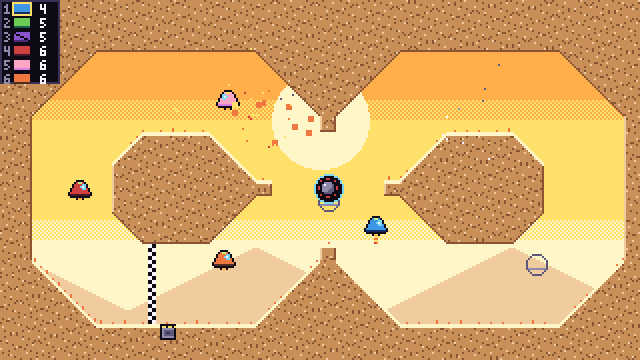
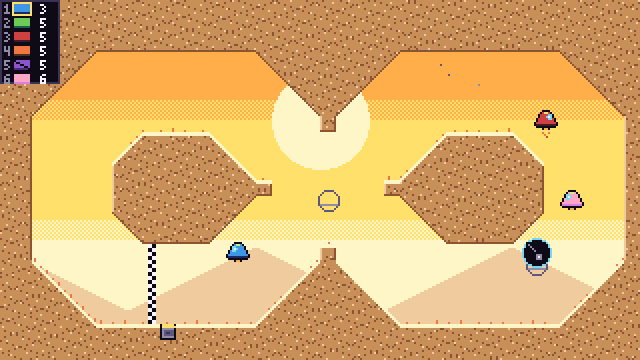
CHIME CIRCUIT: CPU pilots a little slower, shots redrawn
A CPU's top speed is now 370-440 (two thirds to four fifths of a
ship's), so a clean player pulls away as in the original, where the AI is
"straight up slower". The doc's timing table and the README shots follow.

diff --git a/src/games/chime/chime_race.c b/src/games/chime/chime_race.c
@@ -192,7 +192,7 @@ void chm_race_begin(ChmRace *r, const ChmCup *c, int track, uint64_t seed) {
         if (!s->human) {
             /* CPU pilots are slower than a good player: each has its own
              * speed limit for the race */
-            s->skill = (int16_t)rng_range(&r->rng, 400, 470);
+            s->skill = (int16_t)rng_range(&r->rng, 370, 440);
             chm_ai_mood(r, i);
         }
     }

diff --git a/docs/games/19-chime-circuit.md b/docs/games/19-chime-circuit.md
@@ -54,14 +54,14 @@ against the CPUs, the scrum and the pickups it takes about 12 minutes:
 
 | Track | Demo pilot alone | Demo pilot in a race | Its place |
 |---|---|---|---|
-| PRELUDE RING | 41 s | 52 s | 3rd |
-| THE DIPPER | 47 s | 70 s | 1st |
-| NEEDLE'S EYE | 62 s | 133 s | 2nd |
-| HOURGLASS | 48 s | 83 s | 2nd |
-| FORKED REED | 44 s | 59 s | 3rd |
-| TWIN FLUE | 51 s | 105 s | 1st |
-| CROOKED MILE | 63 s | 99 s | 1st |
-| GRAND OCTAVE | 76 s | 109 s | 1st |
+| PRELUDE RING | 41 s | 61 s | 4th |
+| THE DIPPER | 47 s | 58 s | 1st |
+| NEEDLE'S EYE | 62 s | 134 s | 3rd |
+| HOURGLASS | 48 s | 65 s | 1st |
+| FORKED REED | 44 s | 69 s | 3rd |
+| TWIN FLUE | 51 s | 93 s | 1st |
+| CROOKED MILE | 63 s | 77 s | 1st |
+| GRAND OCTAVE | 76 s | 150 s | 1st |
 
 ## Mechanics checklist
 
@@ -149,7 +149,7 @@ against the CPUs, the scrum and the pickups it takes about 12 minutes:
 - **Goals in 2P**: either player earns them.
 - **2P pilots**: the two players can't fly the same pilot (six ships, six
   colours).
-- **CPU pilots**: each has a top speed for the race of 400–470 (71–84 % of
+- **CPU pilots**: each has a top speed for the race of 370–440 (66–79 % of
   a ship's); on TWIN FLUE seven eighths of that. Moods, drawn afresh every
   6 to 12 s: calm 55 %, jostling 35 %, hunting 10 % (on TWIN FLUE 20, 40 and
   40). For the first 5 s everyone jostles. A jostler slashes a player in
